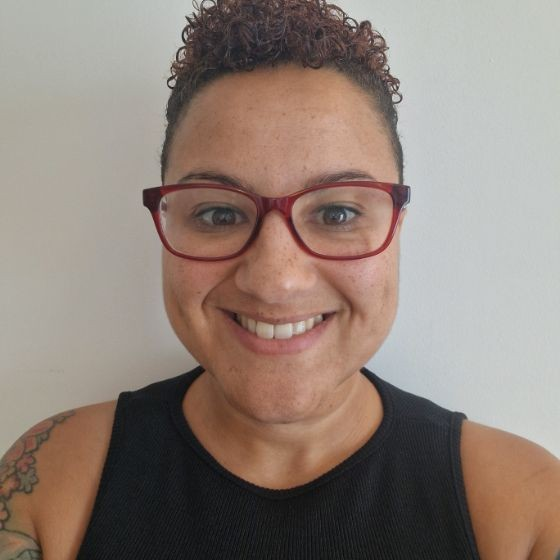
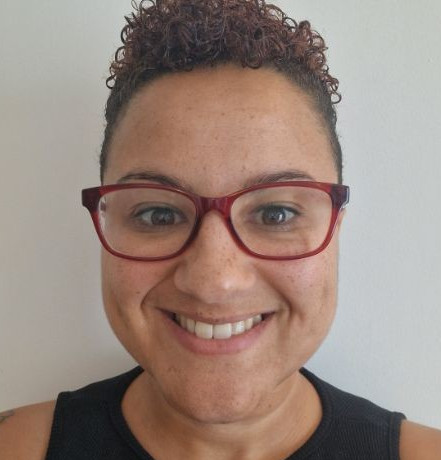
Update headshot

diff --git a/_site/index.html b/_site/index.html
@@ -125,39 +125,26 @@ ul.task-list li input[type="checkbox"] {
 <!-- margin-sidebar -->
     
 <!-- main -->
-<div class="quarto-about-solana column-body">
-  <div class="about-entity">
-    <div class="entity-contents">
-      <header id="title-block-header" class="quarto-title-block default">
+<div class="quarto-about-jolla">
+  <img src="nic_crane.jpeg" class="about-image
+  round " style="height: 15em; width: 15em;">
+ <header id="title-block-header" class="quarto-title-block default">
 <div class="quarto-title">
 <h1 class="title">Nic Crane, PhD</h1>
 </div>
 <div class="quarto-title-meta">
   </div>
-</header> <div class="about-links">
-  <a href="/contact.html" class="about-link" rel="" target="">
-     <span class="about-link-text">Contact Me</span>
-  </a>
-  <a href="https://www.linkedin.com/in/nicolacrane/" class="about-link" rel="" target="">
-    <i class="bi bi-linkedin"></i>
-     <span class="about-link-text">LinkedIn</span>
-  </a>
-  <a href="https://github.com/thisisnic" class="about-link" rel="" target="">
-    <i class="bi bi-github"></i>
-     <span class="about-link-text">Github</span>
-  </a>
-  <a href="https://bsky.app/profile/niccrane.bsky.social" class="about-link" rel="" target="">
-    <i class="bi bi-bluesky"></i>
-     <span class="about-link-text">Bluesky</span>
-  </a>
-  <a href="https://fosstodon.org/@nic_crane" class="about-link" rel="" target="">
-    <i class="bi bi-mastodon"></i>
-     <span class="about-link-text">Mastodon</span>
-  </a>
-</div>
-      <div class="about-contents"><main class="content" id="quarto-document-content">
+</header><main class="content" id="quarto-document-content">
 <p>Hi, I’m Nic! I’m a data scientist, software engineer, and R enthusiast. I am part of the team who maintain the arrow R package and co-author of <a href="https://arrowrbook.com/">Scaling Up with R and Arrow</a>.</p>
 <p>I also provide <strong>professional, tailored consulting and training services</strong> to help organisations unlock the full potential of R and data analysis. With extensive experience in <strong>developing Shiny apps and dashboard</strong>, <strong>modernising legacy code</strong>, <strong>building R packages</strong>, and <strong>designing data visualization and automated reporting tools</strong>, I focus on delivering effective solutions that meet specific client needs and help you get more from your data.</p>
+<section id="training-services" class="level3">
+<h3 data-anchor-id="training-services">Training Services</h3>
+<ul>
+<li><p>Beginner to advanced topics, including <strong>R fundamentals</strong>, <strong>Apache Arrow for big data</strong>, and <strong>AI-powered workflows</strong>.</p></li>
+<li><p>Customised courses tailored to your needs, ensuring relevance and hands-on learning.</p></li>
+<li><p>Proven track record, with workshops taught at <strong>EARL</strong>, <strong>posit::conf</strong> and online courses developed for major platforms.</p></li>
+</ul>
+</section>
 <section id="consulting-expertise" class="level3">
 <h3 data-anchor-id="consulting-expertise"><strong>Consulting Expertise</strong></h3>
 <ul>
@@ -168,16 +155,11 @@ ul.task-list li input[type="checkbox"] {
 <li><p>Optimization and redesign of an existing Shiny app for a semiconductor manufacturer, applying best software engineering practices.</p></li>
 </ul></li>
 <li><p><strong>Legacy code modernization</strong>: Transitioning from SAS or Excel to R for streamlined analysis.</p></li>
-<li><p><strong>Diverse technical solutions</strong>: A complete Python-based NLP solution, including a backend and dashboard, to analyze online reviews and extract themes and aggregated sentiments for a university project.</p></li>
-</ul>
-<p>Open to both short-term problem-solving projects and longer-term collaborations.</p>
-</section>
-<section id="training-services" class="level3">
-<h3 data-anchor-id="training-services">Training Services</h3>
+<li><p><strong>Diverse technical solutions</strong>:</p>
 <ul>
-<li><p>Beginner to advanced topics, including <strong>R fundamentals</strong>, <strong>Apache Arrow for big data</strong>, and <strong>AI-powered workflows</strong>.</p></li>
-<li><p>Customised courses tailored to your needs, ensuring relevance and hands-on learning.</p></li>
-<li><p>Proven track record, with workshops taught at <strong>EARL</strong>, <strong>posit::conf</strong> and online courses developed for major platforms.</p></li>
+<li>Delivered a complete Python-based NLP solution, including a backend and dashboard, to analyze online reviews and extract themes and aggregated sentiments for a university project.</li>
+</ul></li>
+<li><p>Open to both short-term problem-solving projects and longer-term collaborations.</p></li>
 </ul>
 </section>
 <section id="why-work-with-me" class="level3">
@@ -192,11 +174,22 @@ ul.task-list li input[type="checkbox"] {
 
 
 </section>
-</main></div>
-    </div>
-    <img src="nic_crane.jpeg" class="about-image
-  rounded " style="width: 15em;">
-  </div>
+</main> 
+  <hr class="about-sep">
+   <div class="about-links">
+  <a href="https://www.linkedin.com/in/nicolacrane/" class="about-link" rel="" target="">
+    <i class="bi bi-linkedin"></i>
+     <span class="about-link-text">LinkedIn</span>
+  </a>
+  <a href="https://github.com/thisisnic" class="about-link" rel="" target="">
+    <i class="bi bi-github"></i>
+     <span class="about-link-text">Github</span>
+  </a>
+  <a href="https://fosstodon.org/@nic_crane" class="about-link" rel="" target="">
+    <i class="bi bi-mastodon"></i>
+     <span class="about-link-text">Mastodon</span>
+  </a>
+</div>
 </div>
  <!-- /main -->
 <script id="quarto-html-after-body" type="application/javascript">
